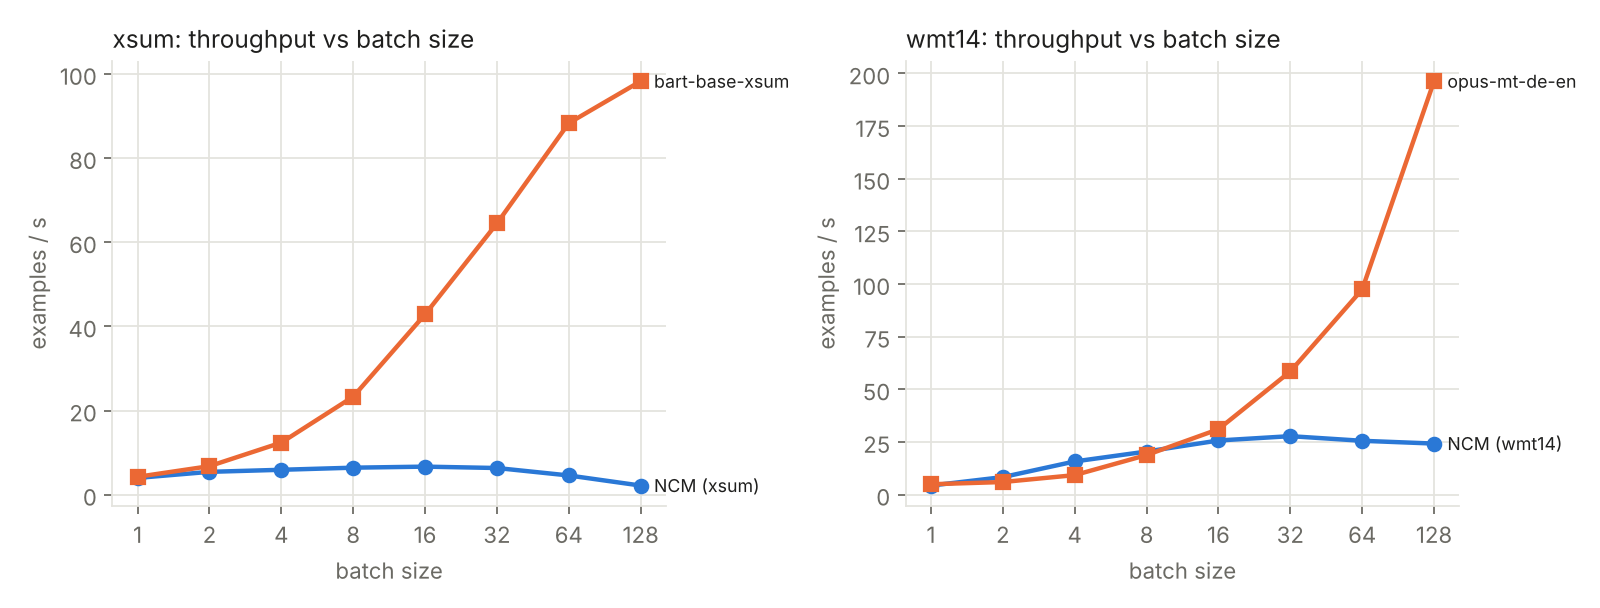
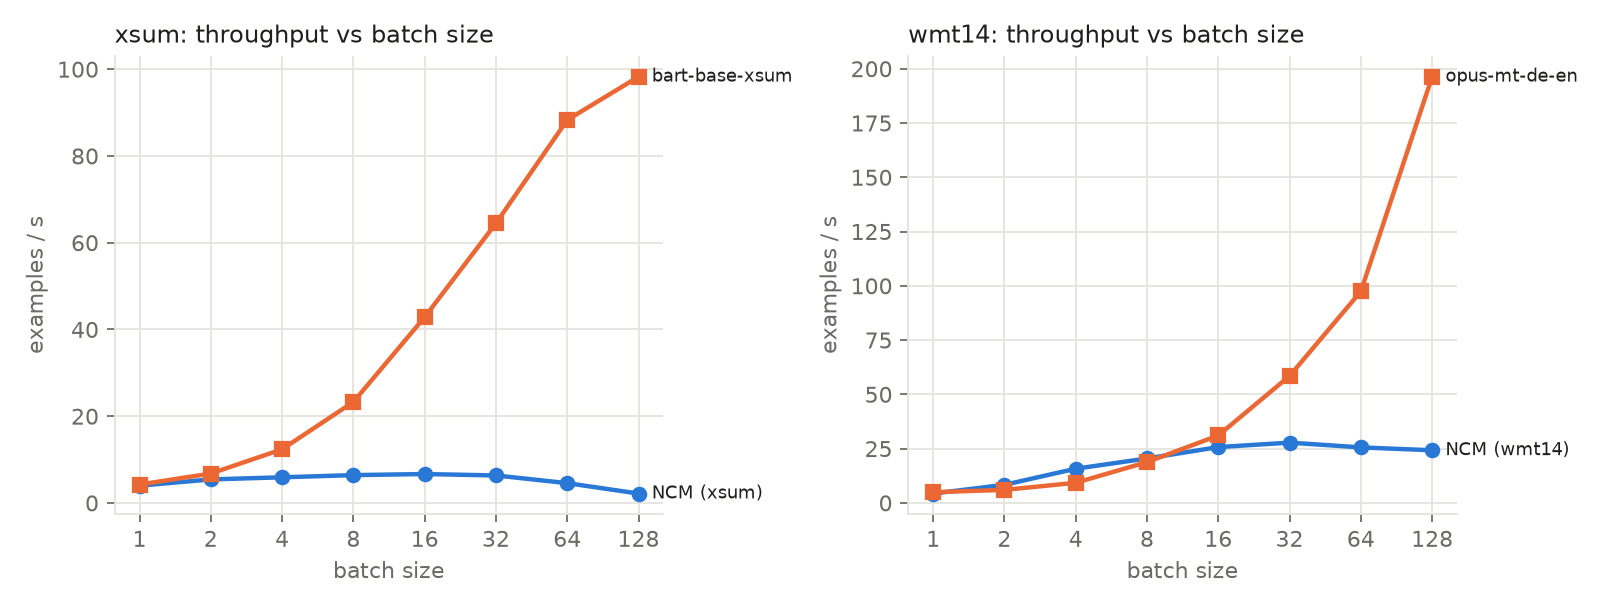
Limits: LLM experiments

diff --git a/paper/tables/limits_sudoku_stress.tex b/paper/tables/limits_sudoku_stress.tex
@@ -7,18 +7,24 @@
 \toprule
 set & solver & n & correct & valid\_solution & full\_grid\_returned & said\_unsolvable & ms\_per\_puzzle \\
 \midrule
-hard & exact solver (CPU) & 100 & 1.0 & 1.0 & 1.0 & 0.0 & 0.64 \\
-shuffled & exact solver (CPU) & 100 & 1.0 & 1.0 & 1.0 & 0.0 & 0.67 \\
-fewer\_clues\_5 & exact solver (CPU) & 100 & 1.0 & 1.0 & 1.0 & 0.0 & 2.2 \\
-fewer\_clues\_15 & exact solver (CPU) & 100 & 0.99 & 0.99 & 0.99 & 0.0 & 142.37 \\
+hard & exact solver (CPU) & 100 & 1.0 & 1.0 & 1.0 & 0.0 & 1.03 \\
+shuffled & exact solver (CPU) & 100 & 1.0 & 1.0 & 1.0 & 0.0 & 1.06 \\
+fewer\_clues\_5 & exact solver (CPU) & 100 & 1.0 & 1.0 & 1.0 & 0.0 & 3.74 \\
+fewer\_clues\_15 & exact solver (CPU) & 100 & 0.99 & 0.99 & 0.99 & 0.0 & 191.08 \\
 unsolvable & exact solver (CPU) & 100 & 1.0 & 0.0 & 0.0 & 1.0 & 0.01 \\
-already\_solved & exact solver (CPU) & 100 & 1.0 & 1.0 & 1.0 & 0.0 & 0.04 \\
-hard & NCM sudoku-hard & 100 & 0.84 & 0.84 & 1.0 & 0.0 & 16.15 \\
-shuffled & NCM sudoku-hard & 100 & 0.85 & 0.85 & 1.0 & 0.0 & 16.07 \\
-fewer\_clues\_5 & NCM sudoku-hard & 100 & 0.32 & 0.32 & 1.0 & 0.0 & 16.45 \\
-fewer\_clues\_15 & NCM sudoku-hard & 100 & 0.01 & 0.01 & 1.0 & 0.0 & 16.37 \\
-unsolvable & NCM sudoku-hard & 100 & 0.0 & 0.0 & 1.0 & 0.0 & 16.98 \\
-already\_solved & NCM sudoku-hard & 100 & 0.0 & 0.0 & 1.0 & 0.0 & 16.52 \\
+already\_solved & exact solver (CPU) & 100 & 1.0 & 1.0 & 1.0 & 0.0 & 0.05 \\
+hard & NCM sudoku-hard & 100 & 0.84 & 0.84 & 1.0 & 0.0 & 28.28 \\
+shuffled & NCM sudoku-hard & 100 & 0.85 & 0.85 & 1.0 & 0.0 & 31.53 \\
+fewer\_clues\_5 & NCM sudoku-hard & 100 & 0.32 & 0.32 & 1.0 & 0.0 & 38.06 \\
+fewer\_clues\_15 & NCM sudoku-hard & 100 & 0.01 & 0.01 & 1.0 & 0.0 & 38.5 \\
+unsolvable & NCM sudoku-hard & 100 & 0.0 & 0.0 & 1.0 & 0.0 & 25.96 \\
+already\_solved & NCM sudoku-hard & 100 & 0.0 & 0.0 & 1.0 & 0.0 & 23.1 \\
+hard & LLM qwen2.5:3b & 20 & 0.0 & 0.0 & 0.3 & 0.0 & 2653.26 \\
+shuffled & LLM qwen2.5:3b & 20 & 0.0 & 0.0 & 0.45 & 0.0 & 4368.13 \\
+fewer\_clues\_5 & LLM qwen2.5:3b & 20 & 0.0 & 0.0 & 0.35 & 0.0 & 1977.45 \\
+fewer\_clues\_15 & LLM qwen2.5:3b & 20 & 0.0 & 0.0 & 0.2 & 0.0 & 1804.69 \\
+unsolvable & LLM qwen2.5:3b & 20 & 0.0 & 0.0 & 0.4 & 0.0 & 4511.48 \\
+already\_solved & LLM qwen2.5:3b & 20 & 1.0 & 1.0 & 1.0 & 0.0 & 3250.52 \\
 \bottomrule
 \end{tabular}
 \end{adjustbox}

diff --git a/paper/tables/limits_agent_reliability.tex b/paper/tables/limits_agent_reliability.tex
@@ -1,0 +1,25 @@
+\begin{table}[t]
+\centering\small
+\caption{Agent runs per task: share calling the needed tools, tool errors, and accuracy.}
+\label{tab:agent_reliability}
+\begin{adjustbox}{max width=\linewidth}
+\begin{tabular}{llrrrrrrr}
+\toprule
+task & temperature & runs & right\_tools & runs\_with\_tool\_error & out\_of\_steps & accuracy & mean\_llm\_calls & mean\_total\_ms \\
+\midrule
+search\_answer & 0.0 & 1 & 1.0 & 0.0 & 0.0 & 1.0 & 2.0 & 1716.6 \\
+search\_answer & 0.7 & 10 & 1.0 & 0.0 & 0.0 & 1.0 & 2.0 & 1463.7 \\
+search\_summarize\_answer & 0.0 & 1 & 0.0 & 0.0 & 0.0 & 1.0 & 2.0 & 1738.7 \\
+search\_summarize\_answer & 0.7 & 10 & 0.0 & 0.0 & 0.0 & 1.0 & 2.0 & 1762.9 \\
+translate\_summarize & 0.0 & 1 & 1.0 & 0.0 & 0.0 &  & 2.0 & 10778.8 \\
+translate\_summarize & 0.7 & 10 & 1.0 & 0.0 & 0.0 &  & 2.0 & 9791.3 \\
+german\_question\_rag & 0.0 & 1 & 0.0 & 0.0 & 0.0 & 0.0 & 2.0 & 3801.6 \\
+german\_question\_rag & 0.7 & 10 & 0.0 & 0.0 & 0.0 & 0.0 & 2.0 & 4473.5 \\
+sudoku & 0.0 & 1 & 1.0 & 1.0 & 0.0 &  & 2.0 & 3365.0 \\
+sudoku & 0.7 & 10 & 1.0 & 1.0 & 0.0 &  & 2.0 & 3620.2 \\
+two\_questions & 0.0 & 1 & 1.0 & 0.0 & 0.0 & 1.0 & 2.0 & 16879.6 \\
+two\_questions & 0.7 & 10 & 1.0 & 0.0 & 0.0 & 0.9 & 2.0 & 7640.3 \\
+\bottomrule
+\end{tabular}
+\end{adjustbox}
+\end{table}

diff --git a/paper/tables/limits_llm_vs_ncm.tex b/paper/tables/limits_llm_vs_ncm.tex
@@ -1,0 +1,19 @@
+\begin{table}[t]
+\centering\small
+\caption{NCM, the AR baseline and qwen2.5:3b (zero-shot, 4-bit) on the same examples.}
+\label{tab:llm_vs_ncm}
+\begin{adjustbox}{max width=\linewidth}
+\begin{tabular}{llrrrrrrr}
+\toprule
+task & system & params\_M & rougeL & bleu & chrf & output\_words & latency\_p50\_ms & latency\_p95\_ms \\
+\midrule
+xsum & NCM (xsum) & 149 & 27.56 &  &  & 21.1 & 264.9 & 365.9 \\
+xsum & bart-base-xsum & 139 & 31.87 &  &  & 18.6 & 331.2 & 528.6 \\
+xsum & qwen2.5:3b (zero-shot) & 3090 & 20.24 &  &  & 23.8 & 968.3 & 1459.8 \\
+wmt14 & NCM (wmt14) & 264 &  & 16.15 & 44.7 & 18.3 & 377.3 & 1333.8 \\
+wmt14 & opus-mt-de-en & 74 &  & 24.67 & 53.82 & 18.9 & 265.3 & 488.1 \\
+wmt14 & qwen2.5:3b (zero-shot) & 3090 &  & 21.93 & 51.16 & 18.6 & 535.5 & 988.2 \\
+\bottomrule
+\end{tabular}
+\end{adjustbox}
+\end{table}

diff --git a/results/limits_summary.md b/results/limits_summary.md
@@ -117,16 +117,52 @@ Generated by `python -m ncm_lab.limits.report` from `results/limits_*.csv`.
 
 | set | solver | n | correct | valid_solution | full_grid_returned | said_unsolvable | ms_per_puzzle |
 |---|---|---|---|---|---|---|---|
-| hard | exact solver (CPU) | 100 | 1.0 | 1.0 | 1.0 | 0.0 | 0.64 |
-| shuffled | exact solver (CPU) | 100 | 1.0 | 1.0 | 1.0 | 0.0 | 0.67 |
-| fewer_clues_5 | exact solver (CPU) | 100 | 1.0 | 1.0 | 1.0 | 0.0 | 2.2 |
-| fewer_clues_15 | exact solver (CPU) | 100 | 0.99 | 0.99 | 0.99 | 0.0 | 142.37 |
+| hard | exact solver (CPU) | 100 | 1.0 | 1.0 | 1.0 | 0.0 | 1.03 |
+| shuffled | exact solver (CPU) | 100 | 1.0 | 1.0 | 1.0 | 0.0 | 1.06 |
+| fewer_clues_5 | exact solver (CPU) | 100 | 1.0 | 1.0 | 1.0 | 0.0 | 3.74 |
+| fewer_clues_15 | exact solver (CPU) | 100 | 0.99 | 0.99 | 0.99 | 0.0 | 191.08 |
 | unsolvable | exact solver (CPU) | 100 | 1.0 | 0.0 | 0.0 | 1.0 | 0.01 |
-| already_solved | exact solver (CPU) | 100 | 1.0 | 1.0 | 1.0 | 0.0 | 0.04 |
-| hard | NCM sudoku-hard | 100 | 0.84 | 0.84 | 1.0 | 0.0 | 16.15 |
-| shuffled | NCM sudoku-hard | 100 | 0.85 | 0.85 | 1.0 | 0.0 | 16.07 |
-| fewer_clues_5 | NCM sudoku-hard | 100 | 0.32 | 0.32 | 1.0 | 0.0 | 16.45 |
-| fewer_clues_15 | NCM sudoku-hard | 100 | 0.01 | 0.01 | 1.0 | 0.0 | 16.37 |
-| unsolvable | NCM sudoku-hard | 100 | 0.0 | 0.0 | 1.0 | 0.0 | 16.98 |
-| already_solved | NCM sudoku-hard | 100 | 0.0 | 0.0 | 1.0 | 0.0 | 16.52 |
+| already_solved | exact solver (CPU) | 100 | 1.0 | 1.0 | 1.0 | 0.0 | 0.05 |
+| hard | NCM sudoku-hard | 100 | 0.84 | 0.84 | 1.0 | 0.0 | 28.28 |
+| shuffled | NCM sudoku-hard | 100 | 0.85 | 0.85 | 1.0 | 0.0 | 31.53 |
+| fewer_clues_5 | NCM sudoku-hard | 100 | 0.32 | 0.32 | 1.0 | 0.0 | 38.06 |
+| fewer_clues_15 | NCM sudoku-hard | 100 | 0.01 | 0.01 | 1.0 | 0.0 | 38.5 |
+| unsolvable | NCM sudoku-hard | 100 | 0.0 | 0.0 | 1.0 | 0.0 | 25.96 |
+| already_solved | NCM sudoku-hard | 100 | 0.0 | 0.0 | 1.0 | 0.0 | 23.1 |
+| hard | LLM qwen2.5:3b | 20 | 0.0 | 0.0 | 0.3 | 0.0 | 2653.26 |
+| shuffled | LLM qwen2.5:3b | 20 | 0.0 | 0.0 | 0.45 | 0.0 | 4368.13 |
+| fewer_clues_5 | LLM qwen2.5:3b | 20 | 0.0 | 0.0 | 0.35 | 0.0 | 1977.45 |
+| fewer_clues_15 | LLM qwen2.5:3b | 20 | 0.0 | 0.0 | 0.2 | 0.0 | 1804.69 |
+| unsolvable | LLM qwen2.5:3b | 20 | 0.0 | 0.0 | 0.4 | 0.0 | 4511.48 |
+| already_solved | LLM qwen2.5:3b | 20 | 1.0 | 1.0 | 1.0 | 0.0 | 3250.52 |
+
+## Specialist NCM vs a general 3B LLM
+
+| task | system | params_M | rougeL | bleu | chrf | output_words | latency_p50_ms | latency_p95_ms |
+|---|---|---|---|---|---|---|---|---|
+| xsum | NCM (xsum) | 149 | 27.56 |  |  | 21.1 | 264.9 | 365.9 |
+| xsum | bart-base-xsum | 139 | 31.87 |  |  | 18.6 | 331.2 | 528.6 |
+| xsum | qwen2.5:3b (zero-shot) | 3090 | 20.24 |  |  | 23.8 | 968.3 | 1459.8 |
+| wmt14 | NCM (wmt14) | 264 |  | 16.15 | 44.7 | 18.3 | 377.3 | 1333.8 |
+| wmt14 | opus-mt-de-en | 74 |  | 24.67 | 53.82 | 18.9 | 265.3 | 488.1 |
+| wmt14 | qwen2.5:3b (zero-shot) | 3090 |  | 21.93 | 51.16 | 18.6 | 535.5 | 988.2 |
+
+![llm_vs_ncm](limits_llm_vs_ncm.png)
+
+## Agent reliability over sampled runs
+
+| task | temperature | runs | right_tools | runs_with_tool_error | out_of_steps | accuracy | mean_llm_calls | mean_total_ms |
+|---|---|---|---|---|---|---|---|---|
+| search_answer | 0.0 | 1 | 1.0 | 0.0 | 0.0 | 1.0 | 2.0 | 1716.6 |
+| search_answer | 0.7 | 10 | 1.0 | 0.0 | 0.0 | 1.0 | 2.0 | 1463.7 |
+| search_summarize_answer | 0.0 | 1 | 0.0 | 0.0 | 0.0 | 1.0 | 2.0 | 1738.7 |
+| search_summarize_answer | 0.7 | 10 | 0.0 | 0.0 | 0.0 | 1.0 | 2.0 | 1762.9 |
+| translate_summarize | 0.0 | 1 | 1.0 | 0.0 | 0.0 |  | 2.0 | 10778.8 |
+| translate_summarize | 0.7 | 10 | 1.0 | 0.0 | 0.0 |  | 2.0 | 9791.3 |
+| german_question_rag | 0.0 | 1 | 0.0 | 0.0 | 0.0 | 0.0 | 2.0 | 3801.6 |
+| german_question_rag | 0.7 | 10 | 0.0 | 0.0 | 0.0 | 0.0 | 2.0 | 4473.5 |
+| sudoku | 0.0 | 1 | 1.0 | 1.0 | 0.0 |  | 2.0 | 3365.0 |
+| sudoku | 0.7 | 10 | 1.0 | 1.0 | 0.0 |  | 2.0 | 3620.2 |
+| two_questions | 0.0 | 1 | 1.0 | 0.0 | 0.0 | 1.0 | 2.0 | 16879.6 |
+| two_questions | 0.7 | 10 | 1.0 | 0.0 | 0.0 | 0.9 | 2.0 | 7640.3 |
 
